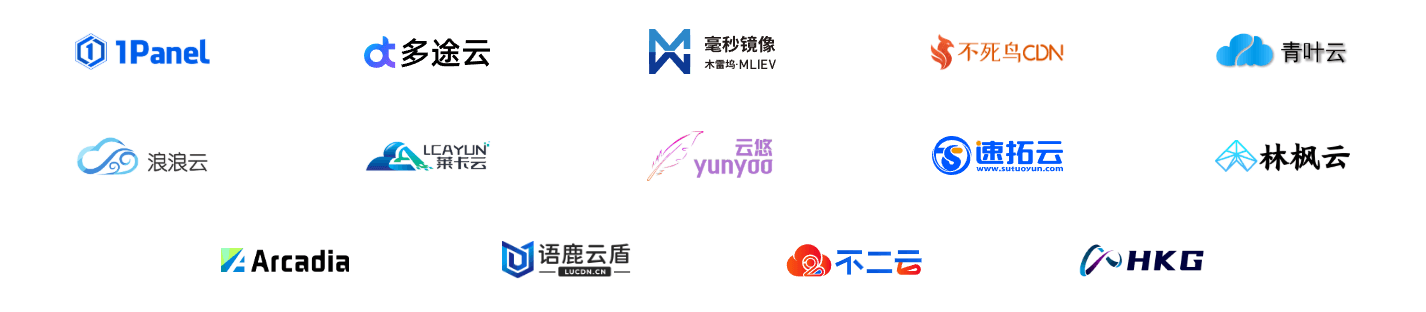
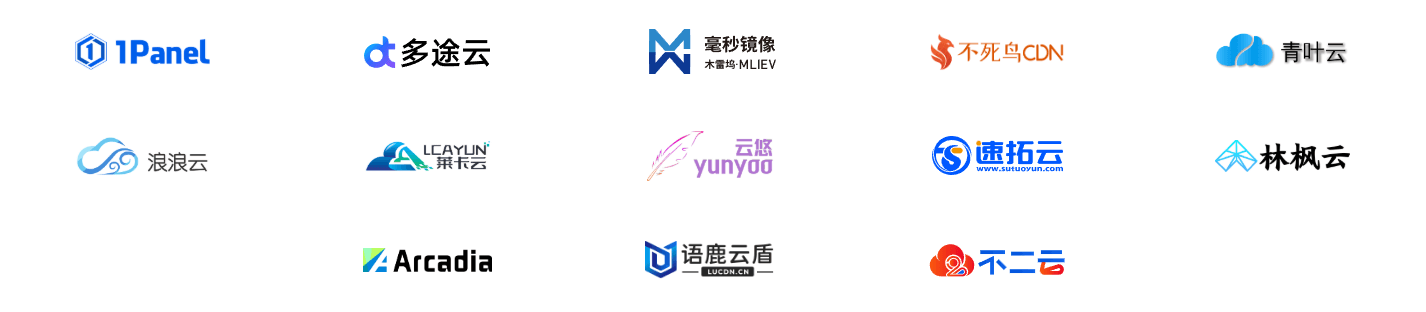
更新文档

Changed region(s): [[0.1543, 0.7788, 0.864, 0.8942]]

diff --git a/docs/theme/partials/toc.html b/docs/theme/partials/toc.html
@@ -14,7 +14,7 @@
         <strong>{{'Sponsors' if i18n_page_locale == 'en' else '贊助商' if i18n_page_locale == 'zh-Hant' else '赞助商'}}</strong>
       </div>
       <div class="sponsor-wrapper sponsor-flex-wrapper-toc no-select">
-        <a class="sponsor-item sponsor-item-toc" target="_blank" href="https://1panel.cn" title="新一代的 Linux 服务器运维管理面板">
+        <a class="sponsor-item sponsor-item-toc sponsor-item-toc-full-row" target="_blank" href="https://1panel.cn" title="新一代的 Linux 服务器运维管理面板">
           <img src="/assets/images/sponsor/1panel.png" alt="1Panel" style="filter: grayscale(1) invert(0.6)" />
         </a>
         <a class="sponsor-item sponsor-item-toc" target="_blank" href="https://www.duotuyun.com" title="智能化防护，每一次连接皆在安全之下">
@@ -63,10 +63,6 @@
         <a class="sponsor-item sponsor-item-toc" target="_blank" href="https://cb2.cn" title="国内外建站快响应服务器的不二之选">
           <img src="/assets/images/sponsor/bueryun.svg#only-light" alt="不二云" style="filter: grayscale(1) invert(0.6)" />
           <img src="/assets/images/sponsor/bueryun.svg#only-dark" alt="不二云" style="filter: grayscale(1) invert(0.7)" />
-        </a>
-        <a class="sponsor-item sponsor-item-toc" target="_blank" href="https://www.hkgserver.com" title="HKGserver - 全球家宽｜双ISP｜住宅原生云服务器54元/月起">
-          <img src="/assets/images/sponsor/hkgserver-light.png#only-light" alt="HKGserver" style="filter: grayscale(1) invert(0.5)" />
-          <img src="/assets/images/sponsor/hkgserver-dark.png#only-dark" alt="HKGserver" style="filter: grayscale(1) invert(0.4)" />
         </a>
         <!-- <a class="sponsor-item sponsor-item-toc" target="_blank" title="{{'Become a Sponsor' if i18n_page_locale == 'en' else '成為贊助商' if i18n_page_locale == 'zh-Hant' else '成为赞助商'}}" href="/sponsor/">
           <span style="font-size: 0.6rem; opacity: 0.5">

diff --git a/docs/sponsor/main.html b/docs/sponsor/main.html
@@ -61,11 +61,6 @@
       <!-- 25 11 14 -->
       <img src="/assets/images/sponsor/bueryun.svg" alt="不二云" style="width: 64% !important" />
     </a>
-    <a class="sponsor-item sponsor-item-flex" target="_blank" href="https://www.hkgserver.com" title="HKGserver - 全球家宽｜双ISP｜住宅原生云服务器54元/月起">
-      <!-- 25 10 21 -->
-      <img src="/assets/images/sponsor/hkgserver-light.png#only-light" alt="HKGserver" />
-      <img src="/assets/images/sponsor/hkgserver-dark.png#only-dark" alt="HKGserver" />
-    </a>
   </div>
 </div>
 
